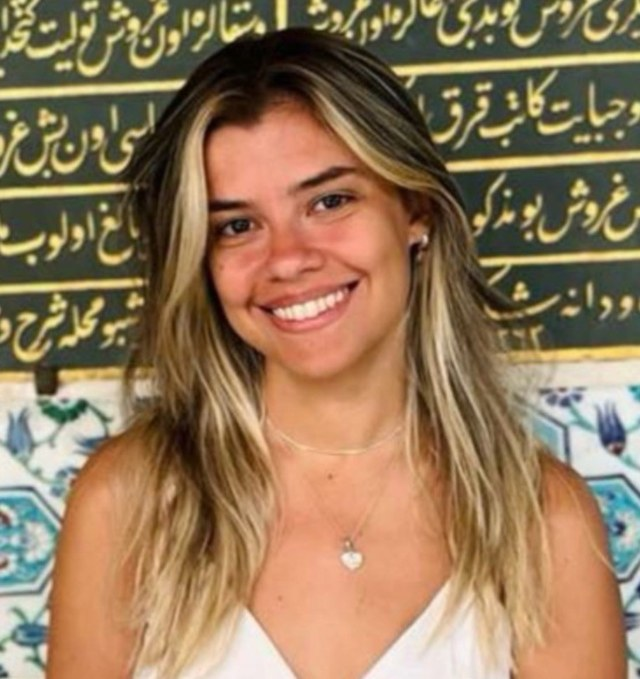
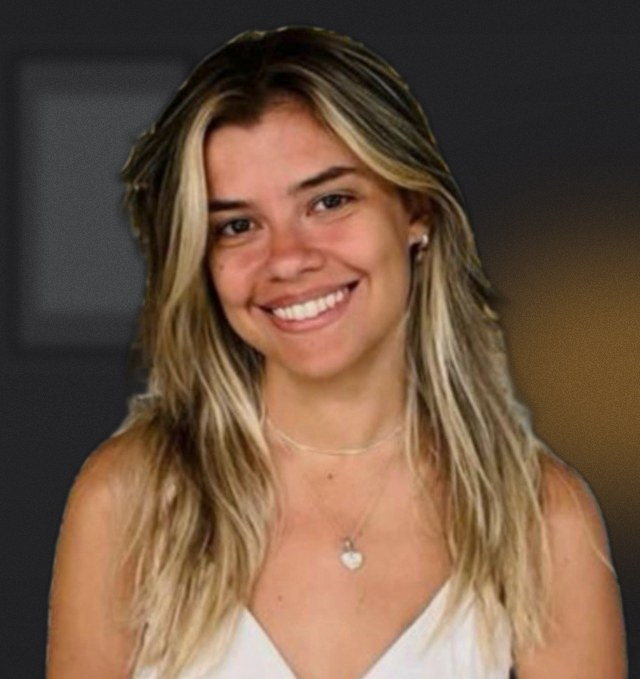
Delete See More Work overlay; instant Sound On badge; matching team photo backgrounds

diff --git a/index.html b/index.html
@@ -268,17 +268,6 @@
     display:flex;align-items:center;justify-content:center;font-size:15px;cursor:pointer;transition:.2s}
   .kdemo .k-x:hover{border-color:var(--gold);background:rgba(199,157,74,.15)}
   .kinfo{position:relative}
-  .kinfo.dimmed>*{filter:grayscale(.75) brightness(.45);transition:filter .7s ease}
-  .kinfo.dimmed>.k-overbanner{filter:none}
-  .k-overbanner{position:absolute;inset:0;z-index:6;display:flex;align-items:center;justify-content:center;
-    gap:20px;opacity:0;transition:.5s ease;pointer-events:none}
-  .k-overbanner.show{opacity:1}
-  .k-overbanner .btn{pointer-events:auto;box-shadow:0 14px 40px rgba(0,0,0,.6)}
-  .k-overbanner .arr{color:var(--gold);font-size:40px;font-weight:800;line-height:1;
-    text-shadow:0 4px 18px rgba(0,0,0,.7);animation:k-flickr .65s ease-in-out infinite}
-  .k-overbanner .arr.l{animation-name:k-flickl}
-  @keyframes k-flickr{0%,100%{transform:translateX(0);opacity:1}50%{transform:translateX(10px);opacity:.55}}
-  @keyframes k-flickl{0%,100%{transform:translateX(0);opacity:1}50%{transform:translateX(-10px);opacity:.55}}
   /* SageTrader launch video */
   .st-frame{position:relative;width:min(300px,82%);margin:0 auto;border-radius:18px;overflow:hidden;
     border:1px solid var(--line);background:#000;box-shadow:0 24px 60px rgba(0,0,0,.55);cursor:pointer;
@@ -684,7 +673,7 @@
       <div>
         <div class="st-frame" id="stFrame">
           <video id="stVid" src="sagetrader-launch.mp4" autoplay muted loop playsinline preload="auto" aria-label="SageTrader brand launch video"></video>
-          <button class="k-sound"><svg viewBox="0 0 24 24" aria-hidden="true"><path d="M3 9v6h4l5 5V4L7 9H3zm13.5 3a4.5 4.5 0 0 0-2.5-4v8a4.5 4.5 0 0 0 2.5-4zM14 3.2v2.1a7 7 0 0 1 0 13.4v2.1a9 9 0 0 0 0-17.6z"/></svg> Click for sound</button>
+          <button class="k-sound"><svg viewBox="0 0 24 24" aria-hidden="true"><path d="M3 9v6h4l5 5V4L7 9H3zm13.5 3a4.5 4.5 0 0 0-2.5-4v8a4.5 4.5 0 0 0 2.5-4zM14 3.2v2.1a7 7 0 0 1 0 13.4v2.1a9 9 0 0 0 0-17.6z"/></svg> Sound On</button>
         </div>
       </div>
     </div>
@@ -1078,33 +1067,11 @@ document.getElementById('yr').textContent=new Date().getFullYear();
     window.onYouTubeIframeAPIReady=function(){prev&&prev();cb()};
   }
   window.jcClearBanner=()=>{};
-  const slide=grid.closest('.kinfo')||grid;
-  function scheduleBanner(){
-    if(obShown)return;obShown=true;
-    setTimeout(()=>{
-      if(demo){obShown=false;return} // a video is playing — never show over it
-      slide.classList.add('dimmed');
-      const ob=document.createElement('div');
-      ob.className='k-overbanner';
-      ob.innerHTML='<span class="arr l" aria-hidden="true">‹</span><a class="btn btn-primary" href="case-studies.html">See More Work</a><span class="arr" aria-hidden="true">›</span>';
-      slide.appendChild(ob);
-      const pv=document.getElementById('cbPrev'),nx=document.getElementById('cbNext');
-      pv&&pv.classList.add('attn');nx&&nx.classList.add('attn');
-      requestAnimationFrame(()=>ob.classList.add('show'));
-      window.jcClearBanner=()=>{
-        slide.classList.remove('dimmed');ob.remove();
-        pv&&pv.classList.remove('attn');nx&&nx.classList.remove('attn');
-        obShown=false;
-        window.jcClearBanner=()=>{};
-      };
-    },2000);
-  }
-  function closePlayer(showBanner){
+  function closePlayer(){
     clearTimeout(stopTimer);stopTimer=null;
     first.classList.remove('selected');
     if(ytp){try{ytp.destroy()}catch(_){/**/}ytp=null}
     if(demo){demo.classList.remove('on');const d=demo;demo=null;setTimeout(()=>d.remove(),500)}
-    if(showBanner)scheduleBanner();
   }
   window.jcCancelDemo=()=>{autoCancelled=true;closePlayer(false);window.jcClearBanner()};
   function openPlayer(vid,limit){
@@ -1121,8 +1088,8 @@ document.getElementById('yr').textContent=new Date().getFullYear();
     x.className='k-x';x.innerHTML='✕';x.setAttribute('aria-label','Close video');
     x.addEventListener('click',()=>closePlayer(true));
     const snd=document.createElement('button');
-    snd.className='k-sound';
-    snd.innerHTML='<svg viewBox="0 0 24 24" aria-hidden="true"><path d="M3 9v6h4l5 5V4L7 9H3zm13.5 3a4.5 4.5 0 0 0-2.5-4v8a4.5 4.5 0 0 0 2.5-4zM14 3.2v2.1a7 7 0 0 1 0 13.4v2.1a9 9 0 0 0 0-17.6z"/></svg> Click for sound';
+    snd.className='k-sound show';
+    snd.innerHTML='<svg viewBox="0 0 24 24" aria-hidden="true"><path d="M3 9v6h4l5 5V4L7 9H3zm13.5 3a4.5 4.5 0 0 0-2.5-4v8a4.5 4.5 0 0 0 2.5-4zM14 3.2v2.1a7 7 0 0 1 0 13.4v2.1a9 9 0 0 0 0-17.6z"/></svg> Sound On';
     snd.addEventListener('click',e=>{
       e.stopPropagation();
       try{if(ytp){ytp.unMute();ytp.setVolume(80)}}catch(_){/**/}
@@ -1130,8 +1097,9 @@ document.getElementById('yr').textContent=new Date().getFullYear();
     });
     demo.appendChild(catchd);demo.appendChild(x);demo.appendChild(snd);
     grid.appendChild(demo);
-    const muteCheck=()=>{try{if(ytp&&ytp.isMuted&&ytp.isMuted())snd.classList.add('show')}catch(_){/**/}};
-    setTimeout(muteCheck,150);setTimeout(muteCheck,500);setTimeout(muteCheck,1200);
+    // hide the badge only if the video is confirmed playing with sound already on
+    const sndCheck=()=>{try{if(ytp&&ytp.isMuted&&!ytp.isMuted()&&ytp.getPlayerState()===1)snd.classList.remove('show')}catch(_){/**/}};
+    setTimeout(sndCheck,700);setTimeout(sndCheck,1500);
     requestAnimationFrame(()=>demo&&demo.classList.add('on'));
     loadYT(()=>{
       if(!demo)return;
@@ -1175,7 +1143,7 @@ document.getElementById('yr').textContent=new Date().getFullYear();
     v.muted=true;
     const tryPlay=()=>{const p=v.play();p&&p.catch(()=>{/**/})};
     tryPlay();
-    setTimeout(()=>{if(v.muted)snd.classList.add('show')},900);
+    if(v.muted)snd.classList.add('show');
     const setBadge=()=>{v.muted?snd.classList.add('show'):snd.classList.remove('show')};
     snd.addEventListener('click',e=>{e.stopPropagation();v.muted=false;setBadge();if(v.paused)tryPlay()});
     frame.addEventListener('click',()=>{v.muted=!v.muted;setBadge();if(v.paused)tryPlay()});
